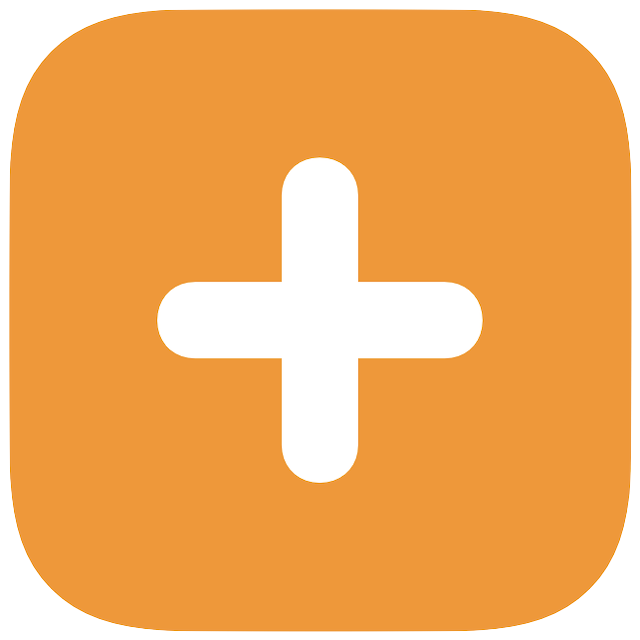
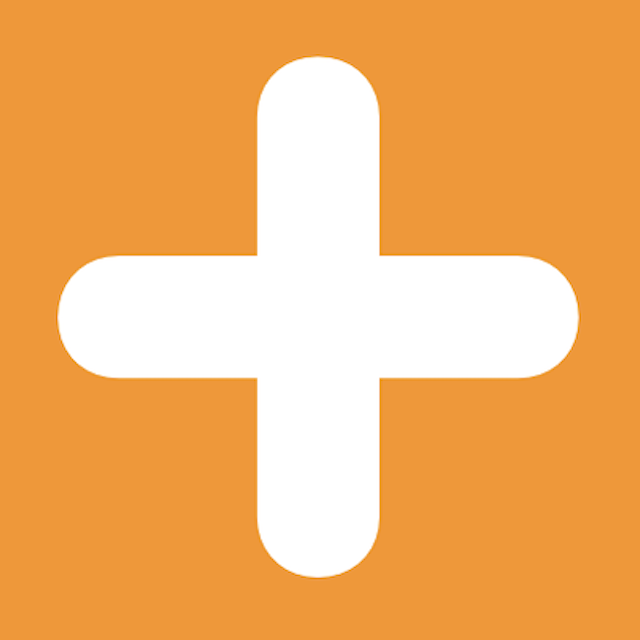
(commit at (2026-11-24 00:46:17))

Changed region(s): [[0.0625, 0.0625, 0.9062, 0.9062], [0.0, 0.0, 1.0, 1.0]]

diff --git a/index.html b/index.html
@@ -4,8 +4,16 @@
   <meta charset="UTF-8" />
   <meta name="viewport" content="width=device-width, initial-scale=1.0, maximum-scale=1.0, user-scalable=no" />
   <meta name="theme-color" content="#ff7a00" />
+  <meta name="apple-mobile-web-app-capable" content="yes">
+  <meta name="mobile-web-app-capable" content="yes">
+  <meta name="apple-mobile-web-app-status-bar-style" content="black">
+  <meta name="apple-mobile-web-app-title" content="euTreino">
+
   <title>euTreino</title>
+
   <link rel="manifest" href="manifest.json" />
+  <link rel="icon" href="img/i192.png">
+  <link rel="apple-touch-icon" href="img/i192.png">
   <link rel="stylesheet" href="css/style.css" />
   <script src="js/supabase.js"></script>
 </head>
@@ -15,8 +23,10 @@
     <!-- ==================== VIEW 1: AGENDA ==================== -->
     <div id="view-agenda" class="view active">
       <header class="top-bar">
-        <button id="btn-open-avulsa" class="icon-btn" title="Aula Avulsa">🏃</button>
-        <h1>Agenda 23@22:22</h1>
+        <button id="btn-open-avulsa" class="icon-btn" title="Aula Avulsa">
+          <img src="img/avulso.png" alt="Aula Avulsa" class="header-icon">
+        </button>
+        <h1>Agenda 24@00:45</h1>
         <div class="header-actions">
           <button id="btn-help" class="icon-btn" title="Legenda">?</button>
           <button id="btn-today" class="icon-btn" title="Ir para Hoje">🕒</button>
@@ -27,7 +37,9 @@
         <div class="calendar-controls">
           <button id="month-label" class="month-picker">November 2026 &gt;</button>
           <div class="nav-arrows">
-            <button id="btn-toggle-calendar" class="toggle-cal-btn" title="Recolher/Expandir Calendário">▲</button>
+            <button type="button" id="btn-toggle-calendar" class="toggle-cal-btn" title="Alternar Calendário">
+              <img src="img/day.png" alt="Alternar visualização" class="cal-toggle-icon">
+            </button>
             <button id="btn-prev-month">&lt;</button>
             <button id="btn-next-month">&gt;</button>
           </div>
@@ -90,9 +102,10 @@
       <header class="top-bar">
         <span style="width:28px"></span>
         <h1>Clientes</h1>
-        <button id="btn-add-client" class="icon-btn plus-circle" title="Novo Cliente">+</button>
+        <button type="button" id="btn-add-client" class="icon-btn" title="Novo Cliente">
+          <img src="img/add.png" alt="Adicionar" class="header-icon">
+        </button>
       </header>
-
       <div id="clients-list" class="main-content scroll-pad"></div>
     </div>
 
@@ -236,23 +249,24 @@
 
 <!-- ==================== BOTTOM NAVIGATION ==================== -->
     <nav id="bottom-nav" class="bottom-nav">
-      <button class="nav-item active" data-target="view-agenda">
-        <span class="nav-icon">📅</span>
+      <button type="button" class="nav-item active" data-target="view-agenda" data-icon="agenda">
+        <img src="img/agenda1.png" alt="Agenda" class="nav-icon-img">
         <span class="nav-label">AGENDA</span>
       </button>
-      <button class="nav-item" data-target="view-clientes">
-        <span class="nav-icon">🏃</span>
+      <button type="button" class="nav-item" data-target="view-clientes" data-icon="clientes">
+        <img src="img/clientes0.png" alt="Clientes" class="nav-icon-img">
         <span class="nav-label">CLIENTES</span>
       </button>
-      <button class="nav-item" data-target="view-fechamento">
-        <span class="nav-icon">📋</span>
+      <button type="button" class="nav-item" data-target="view-fechamento" data-icon="fechamento">
+        <img src="img/fechamento0.png" alt="Fechamento" class="nav-icon-img">
         <span class="nav-label">FECHAMENTO</span>
       </button>
-      <button class="nav-item" data-target="view-ajustes">
-        <span class="nav-icon">⚙</span>
+      <button type="button" class="nav-item" data-target="view-ajustes" data-icon="ajustes">
+        <img src="img/ajustes0.png" alt="Ajustes" class="nav-icon-img">
         <span class="nav-label">AJUSTES</span>
       </button>
-    </nav>
+</nav>
+
 
   </div>
 

diff --git a/js/app.js b/js/app.js
@@ -113,24 +113,27 @@ function syncFechamentoDefaults()
 
 function setupNavigation()
 {
-  document.querySelectorAll('.nav-item').forEach(btn =>
-  {
-    btn.addEventListener('click', () =>
-    {
-      document.querySelectorAll('.nav-item').forEach(b => b.classList.remove('active'));
+  document.querySelectorAll('.nav-item').forEach(btn => {
+    btn.addEventListener('click', () => {
+      document.querySelectorAll('.nav-item').forEach(b => {
+        b.classList.remove('active');
+        const img = b.querySelector('img');
+        if (img && b.dataset.icon) img.src = `img/${b.dataset.icon}0.png`;
+      });
+
       btn.classList.add('active');
+      const activeImg = btn.querySelector('img');
+      if (activeImg && btn.dataset.icon) activeImg.src = `img/${btn.dataset.icon}1.png`;
+
       const target = btn.dataset.target;
       showView(target);
-      if (target === 'view-fechamento')
-      {
-        setWheelValue(document.getElementById('fechamento-month-col'), MONTH_SHORT, MONTH_SHORT[state.fechamentoMonth]);
-        setWheelValue(document.getElementById('fechamento-year-col'), [2024, 2025, 2026, 2027, 2028, 2029, 2030], state.fechamentoYear);
+      if (target === 'view-fechamento') {
+        syncFechamentoDefaults();
         renderFechamento();
       }
     });
   });
 }
-
 
 function formatDateISO(date) {
   const y = date.getFullYear();
@@ -156,11 +159,15 @@ function populatePriceSelects() {
 // ============================================================================
 // 5. AGENDA & COLLAPSIBLE CALENDAR
 // ============================================================================
-function setupAgendaControls() {
+function setupAgendaControls()
+{
   document.getElementById('btn-toggle-calendar').addEventListener('click', (e) => {
     state.isCalendarCollapsed = !state.isCalendarCollapsed;
     document.getElementById('calendar-wrapper').classList.toggle('collapsed', state.isCalendarCollapsed);
-    e.target.textContent = state.isCalendarCollapsed ? '▼' : '▲';
+    const img = e.currentTarget.querySelector('img');
+    if (img) {
+      img.src = state.isCalendarCollapsed ? 'img/cal.png' : 'img/day.png';
+    }
   });
 
   document.getElementById('btn-prev-month').addEventListener('click', () => {

diff --git a/sw.js b/sw.js
@@ -1,0 +1,48 @@
+const CACHE_PREFIX = 'euTreino-';
+const CACHE_NAME = 'euTreino-v1.4';
+const ASSETS = [
+  './',
+  './index.html',
+  './css/style.css',
+  './js/app.js',
+  './js/supabase.js',
+  './manifest.json',
+  './img/i192.png',
+  './img/i512.png'
+];
+
+self.addEventListener('install', (e) => {
+  e.waitUntil(
+    caches.open(CACHE_NAME).then((cache) => cache.addAll(ASSETS))
+  );
+  self.skipWaiting();
+});
+
+self.addEventListener('activate', (e) => {
+  e.waitUntil(
+    caches.keys().then((keys) =>
+      Promise.all(
+        keys
+          .filter((key) => key.startsWith(CACHE_PREFIX) && key !== CACHE_NAME)
+          .map((key) => caches.delete(key))
+      )
+    )
+  );
+  self.clients.claim();
+});
+
+self.addEventListener('fetch', (e) => {
+  // Always fetch live data from Supabase
+  if (e.request.url.includes('supabase.co')) return;
+
+  // Network-first for app files, falling back to cache when offline
+  e.respondWith(
+    fetch(e.request)
+      .then((res) => {
+        const copy = res.clone();
+        caches.open(CACHE_NAME).then((cache) => cache.put(e.request, copy));
+        return res;
+      })
+      .catch(() => caches.match(e.request))
+  );
+});

diff --git a/css/style.css b/css/style.css
@@ -750,6 +750,26 @@ input:checked + .slider:before {
   font-weight: 600;
 }
 
+.header-icon {
+  width: 28px;
+  height: 28px;
+  object-fit: contain;
+  border-radius: 6px;
+}
+.cal-toggle-icon {
+  width: 24px;
+  height: 24px;
+  object-fit: contain;
+  border-radius: 5px;
+  vertical-align: middle;
+}
+.nav-icon-img {
+  width: 24px;
+  height: 24px;
+  object-fit: contain;
+  margin-bottom: 2px;
+}
+
 /* Fechamento Payment Summary & Badges */
 .fechamento-summary {
   display: flex;
